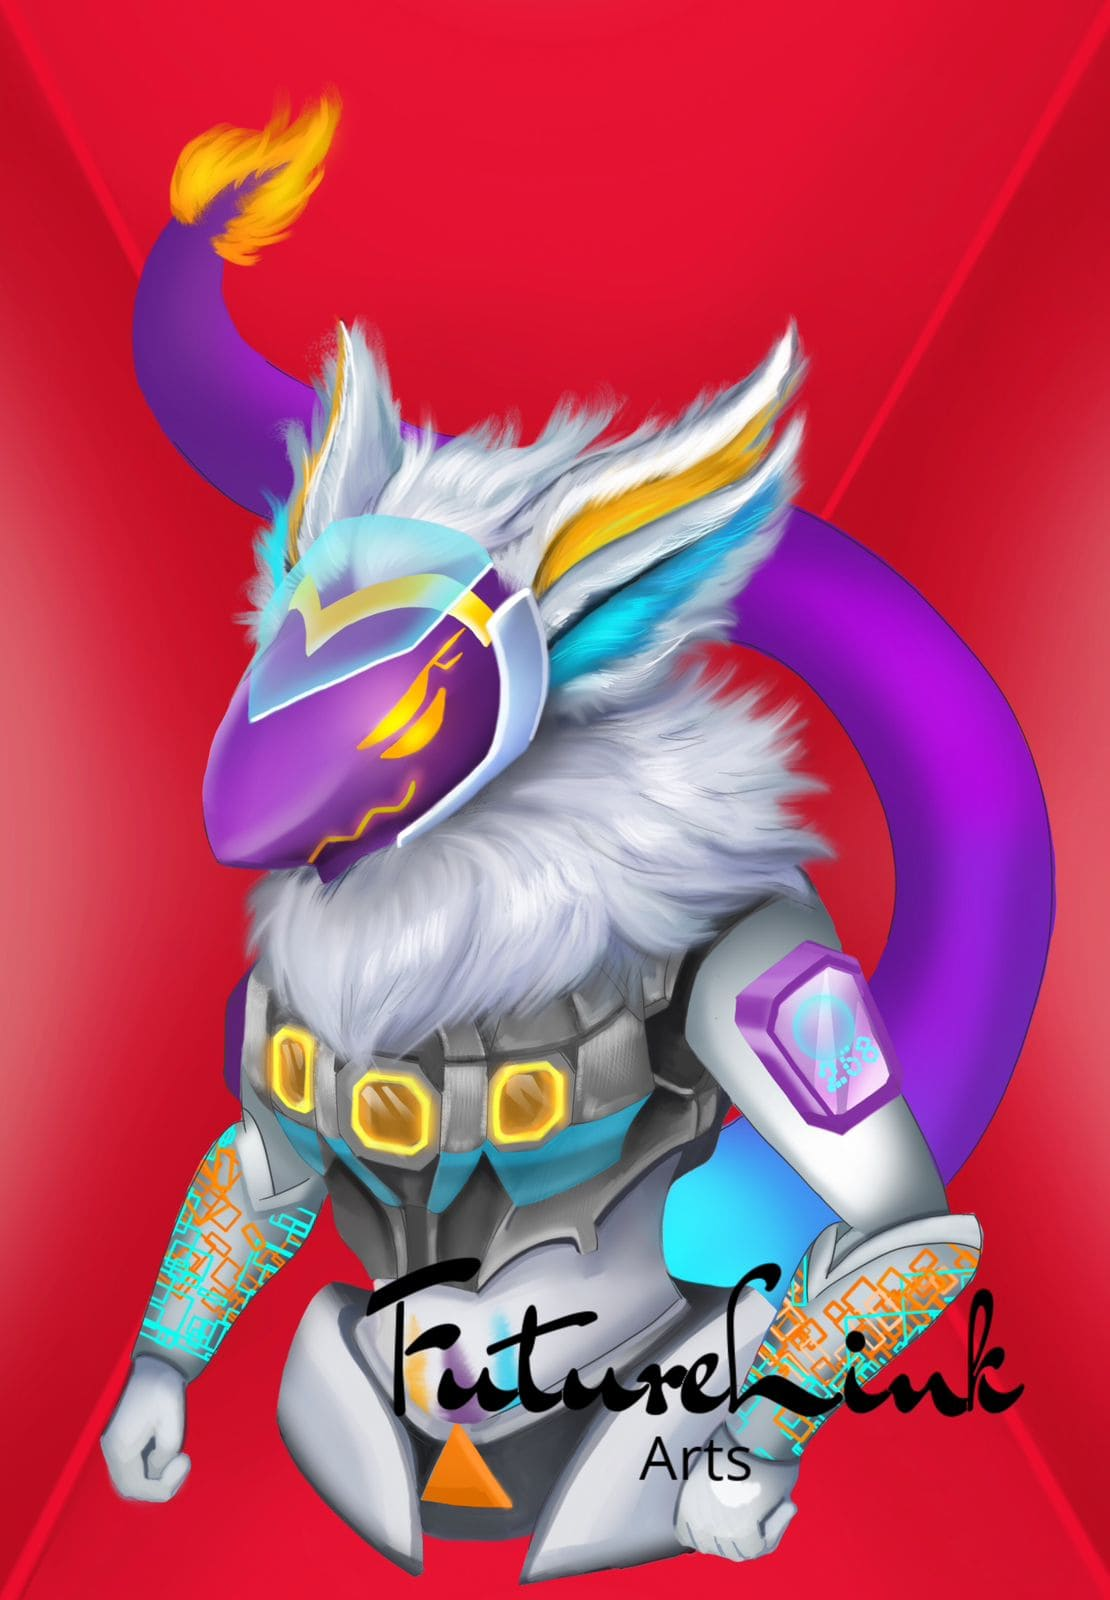
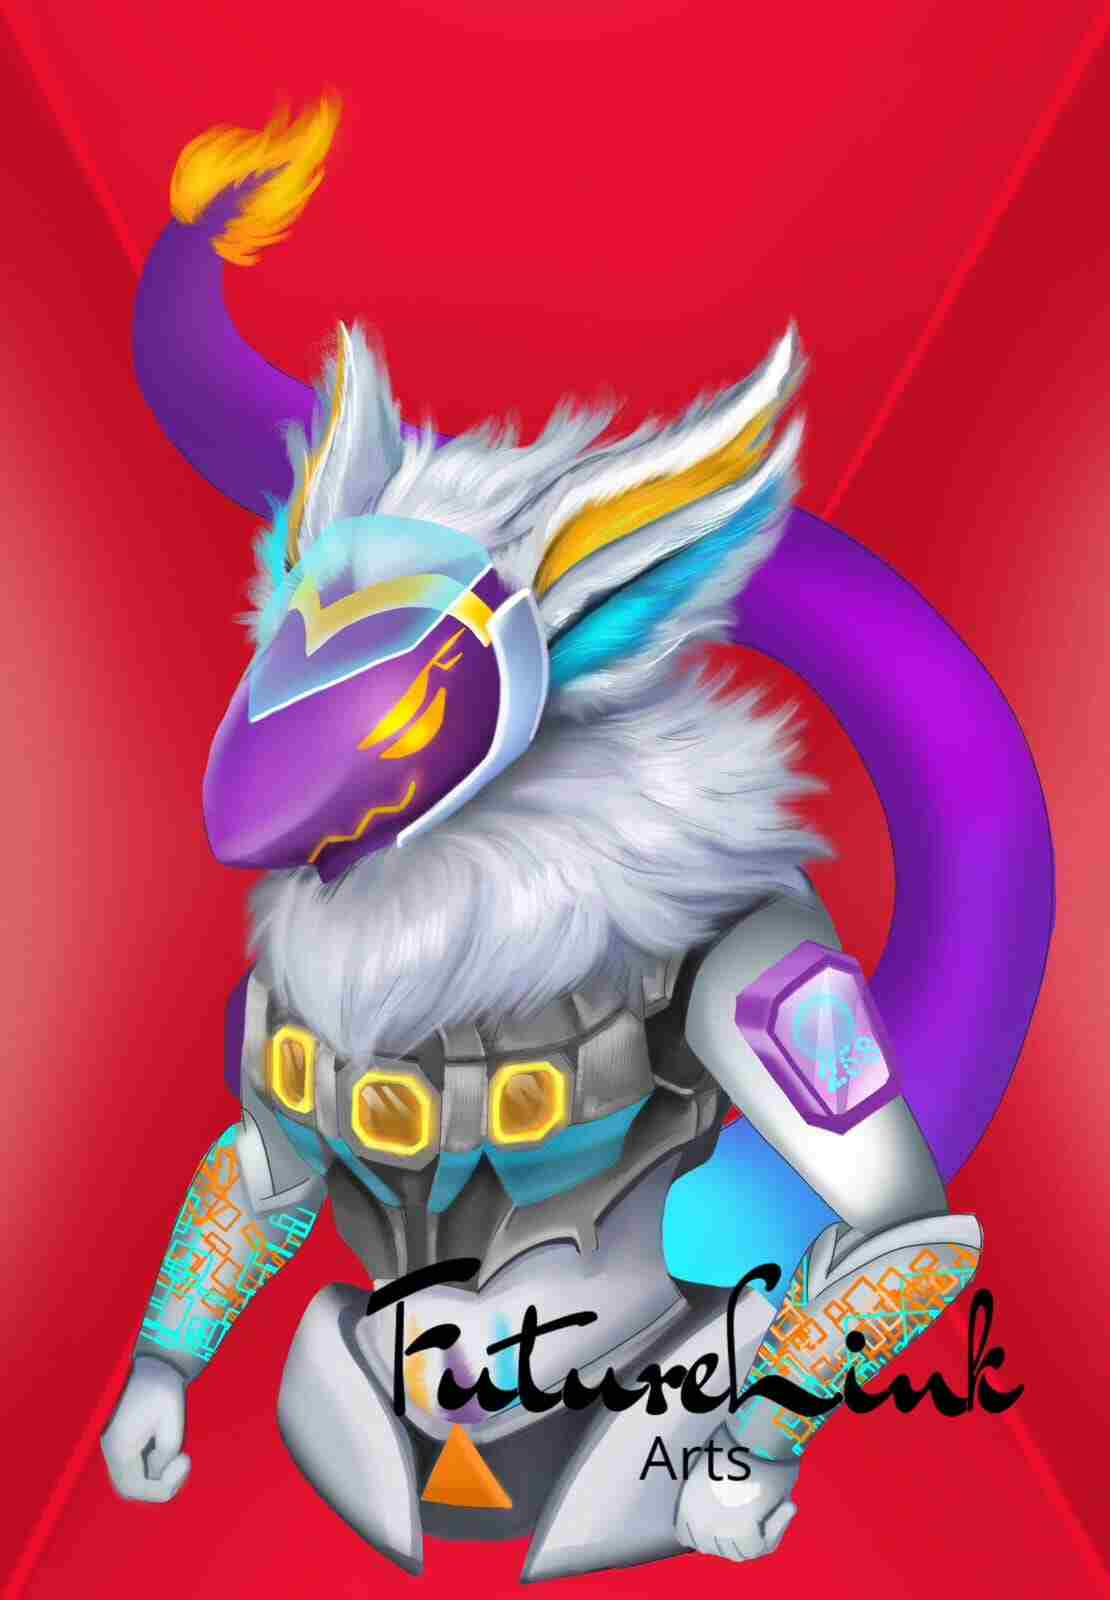
overall changes furry image size reduced

diff --git a/index.html b/index.html
@@ -143,10 +143,10 @@
     
             <div class="row portfolio-container" data-aos="fade-up" data-aos-delay="200">
               <div class="col-lg-4 col-md-6 portfolio-item filter-emotes">
-                <a href="assets/img/portfolio/emotes/emote-0001.jpg"
+                <a href="assets/img/portfolio/emotes/emote-0001.png"
                   data-gallery="portfolioGallery" class="portfolio-lightbox preview-link" title="Emotes-0001">
                   <div class="portfolio-img"><img
-                      src="assets/img/portfolio/emotes/emote-0001.jpg" class="img-fluid" alt="">
+                      src="assets/img/portfolio/emotes/emote-0001.png" class="img-fluid" alt="">
                   </div>
                   <div class="portfolio-info">
                     <h4>Emotes Sample 1</h4>
@@ -156,10 +156,10 @@
               </div>
     
               <div class="col-lg-4 col-md-6 portfolio-item filter-emotes">
-                <a href="assets/img/portfolio/emotes/emote-0002.jpg"
+                <a href="assets/img/portfolio/emotes/emote-0002.png"
                   data-gallery="portfolioGallery" class="portfolio-lightbox preview-link" title="Emotes-0002">
                   <div class="portfolio-img"><img
-                      src="assets/img/portfolio/emotes/emote-0002.jpg" class="img-fluid" alt="">
+                      src="assets/img/portfolio/emotes/emote-0002.png" class="img-fluid" alt="">
                   </div>
                   <div class="portfolio-info">
                     <h4>Emotes Sample 2</h4>
@@ -169,10 +169,10 @@
               </div>
     
               <div class="col-lg-4 col-md-6 portfolio-item filter-emotes">
-                <a href="assets/img/portfolio/emotes/emote-0003.jpg"
+                <a href="assets/img/portfolio/emotes/emote-0003.png"
                   data-gallery="portfolioGallery" class="portfolio-lightbox preview-link" title="Emotes-0003">
                   <div class="portfolio-img"><img
-                      src="assets/img/portfolio/emotes/emote-0003.jpg" class="img-fluid" alt="">
+                      src="assets/img/portfolio/emotes/emote-0003.png" class="img-fluid" alt="">
                   </div>
                   <div class="portfolio-info">
                     <h4>Emotes Sample 3</h4>
@@ -182,10 +182,10 @@
               </div>
     
               <div class="col-lg-4 col-md-6 portfolio-item filter-emotes">
-                <a href="assets/img/portfolio/emotes/emote-0004.jpg"
+                <a href="assets/img/portfolio/emotes/emote-0004.png"
                   data-gallery="portfolioGallery" class="portfolio-lightbox preview-link" title="Emotes-0004">
                   <div class="portfolio-img"><img
-                      src="assets/img/portfolio/emotes/emote-0004.jpg" class="img-fluid" alt="">
+                      src="assets/img/portfolio/emotes/emote-0004.png" class="img-fluid" alt="">
                   </div>
                   <div class="portfolio-info">
                     <h4>Emotes Sample 4</h4>
